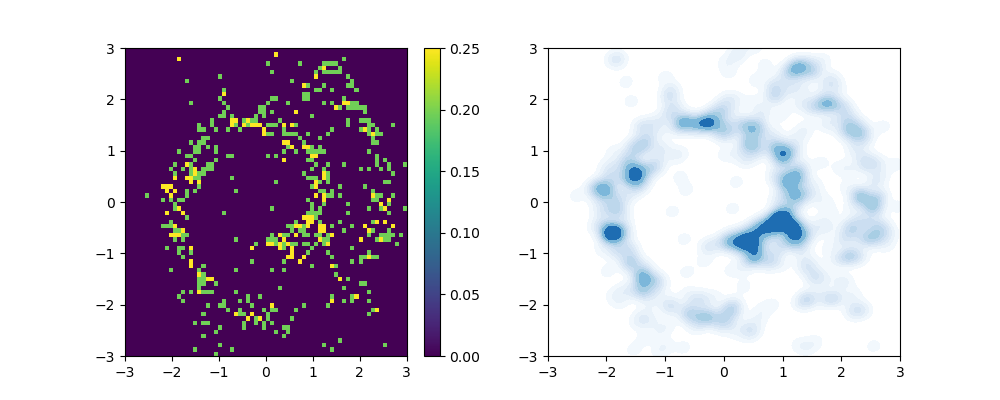
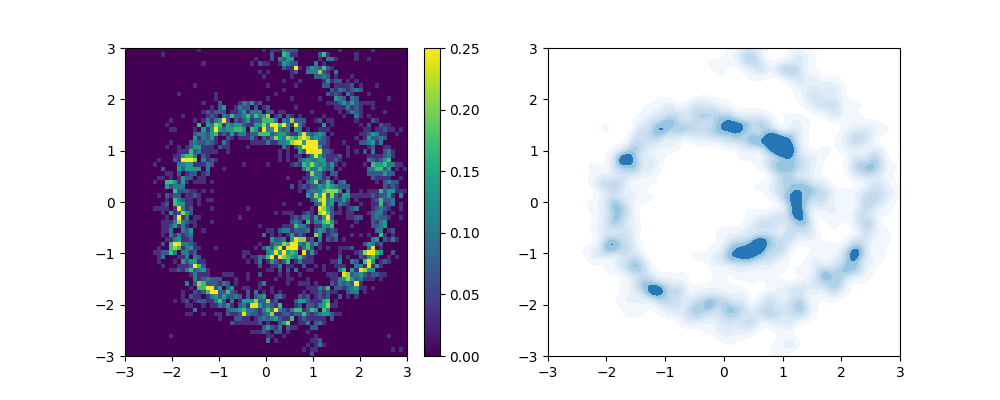
generic commit

diff --git a/scripts/transport/kvae_flow.py b/scripts/transport/kvae_flow.py
@@ -725,41 +725,42 @@ def vl_exp(N=10000, n_iter=51, Yd=18, normal=True, exp_name='kvl_exp2', n_transp
 
 def run():
     ref_gen = sample_normal
+    target_gen = mgan2
     N = 2000
     batch_size = 2000
     n_transports = 62
     print('\n')
     print('Eps = 1 exps')
     for i in range(3):
-        two_d_exp(ref_gen, sample_swiss_roll, N=N, n_iter=49, plt_range=[[-3, 3], [-3, 3]], process_funcs=[],
+        two_d_exp(ref_gen, mgan2, N=N, n_iter=49, plt_range=[[-3, 3], [-3, 3]], process_funcs=[],
                 skip_idx=1, slice_vals=[0], slice_range=[-3,3], exp_name='exp0', n_transports=n_transports, vmax=.25,
                 batch_size = batch_size, reg_lambda= 1e-5, N_plot = 4000, final_eps=1)
 
     print('\n ')
     print('Eps = .1 exps')
     for i in range(3):
-        two_d_exp(ref_gen, sample_swiss_roll, N=N, n_iter=49, plt_range=[[-3, 3], [-3, 3]], process_funcs=[],
+        two_d_exp(ref_gen,  mgan2, N=N, n_iter=49, plt_range=[[-3, 3], [-3, 3]], process_funcs=[],
                 skip_idx=1, slice_vals=[0], slice_range=[-3,3], exp_name='exp1', n_transports=n_transports, vmax=.25,
                 batch_size = batch_size, reg_lambda= 1e-5, N_plot = 4000, final_eps=.1)
 
     print('\n')
     print('Eps = .01 exps')
     for i in range(3):
-        two_d_exp(ref_gen, sample_swiss_roll, N=N, n_iter=49, plt_range=[[-3, 3], [-3, 3]], process_funcs=[],
+        two_d_exp(ref_gen,  mgan2, N=N, n_iter=49, plt_range=[[-3, 3], [-3, 3]], process_funcs=[],
                   skip_idx=1, slice_vals=[0], slice_range=[-3, 3], exp_name='exp2', n_transports=n_transports, vmax=.25,
                   batch_size=batch_size, reg_lambda=1e-5, N_plot=4000, final_eps=.01)
 
     print('\n')
     print('Eps = .001 exps')
     for i in range(3):
-        two_d_exp(ref_gen, sample_swiss_roll, N=N, n_iter=49, plt_range=[[-3, 3], [-3, 3]], process_funcs=[],
+        two_d_exp(ref_gen,  mgan2, N=N, n_iter=49, plt_range=[[-3, 3], [-3, 3]], process_funcs=[],
                   skip_idx=1, slice_vals=[0], slice_range=[-3, 3], exp_name='exp3', n_transports=n_transports, vmax=.25,
                   batch_size=batch_size, reg_lambda=1e-5, N_plot=4000, final_eps=.001)
 
     print('\n')
     print('Eps = .0001 exps')
     for i in range(3):
-        two_d_exp(ref_gen, sample_spirals, N=N, n_iter=49, plt_range=[[-3, 3], [-3, 3]], process_funcs=[],
+        two_d_exp(ref_gen,  mgan2, N=N, n_iter=49, plt_range=[[-3, 3], [-3, 3]], process_funcs=[],
                   skip_idx=1, slice_vals=[0], slice_range=[-3, 3], exp_name='exp4', n_transports=n_transports, vmax=.25,
                   batch_size=batch_size, reg_lambda=1e-5, N_plot=4000, final_eps=.0001)
 
